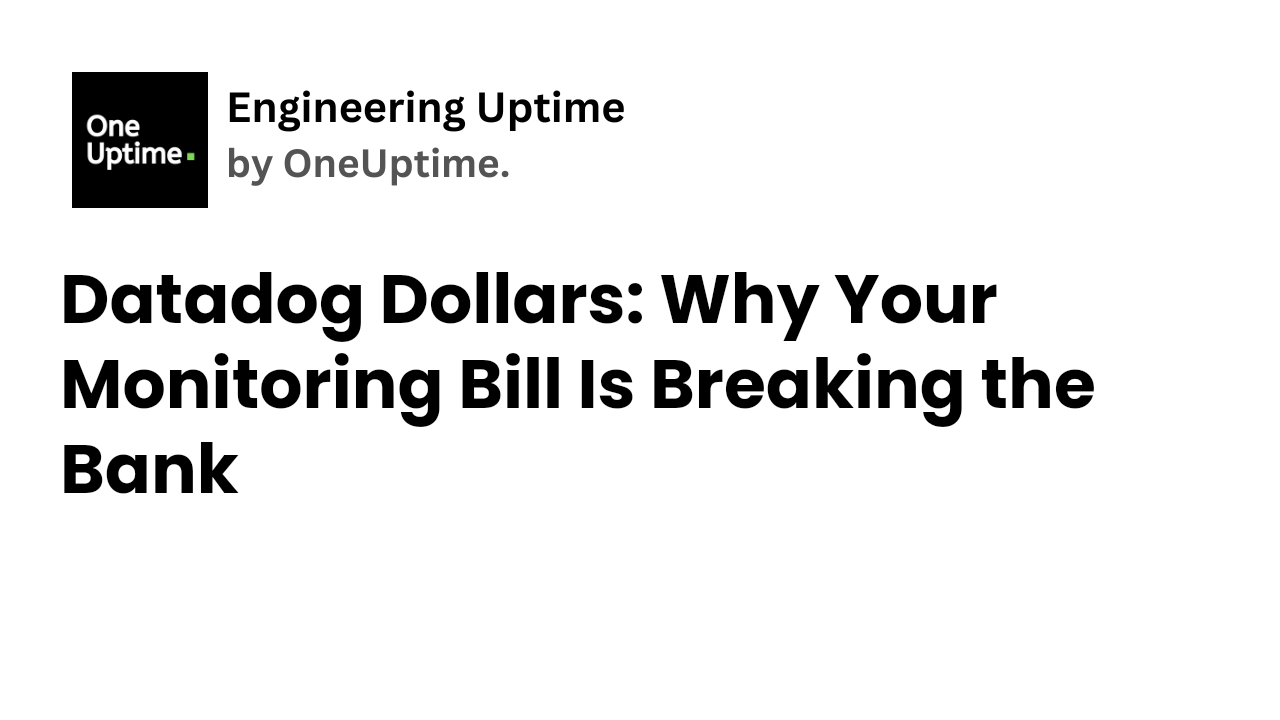
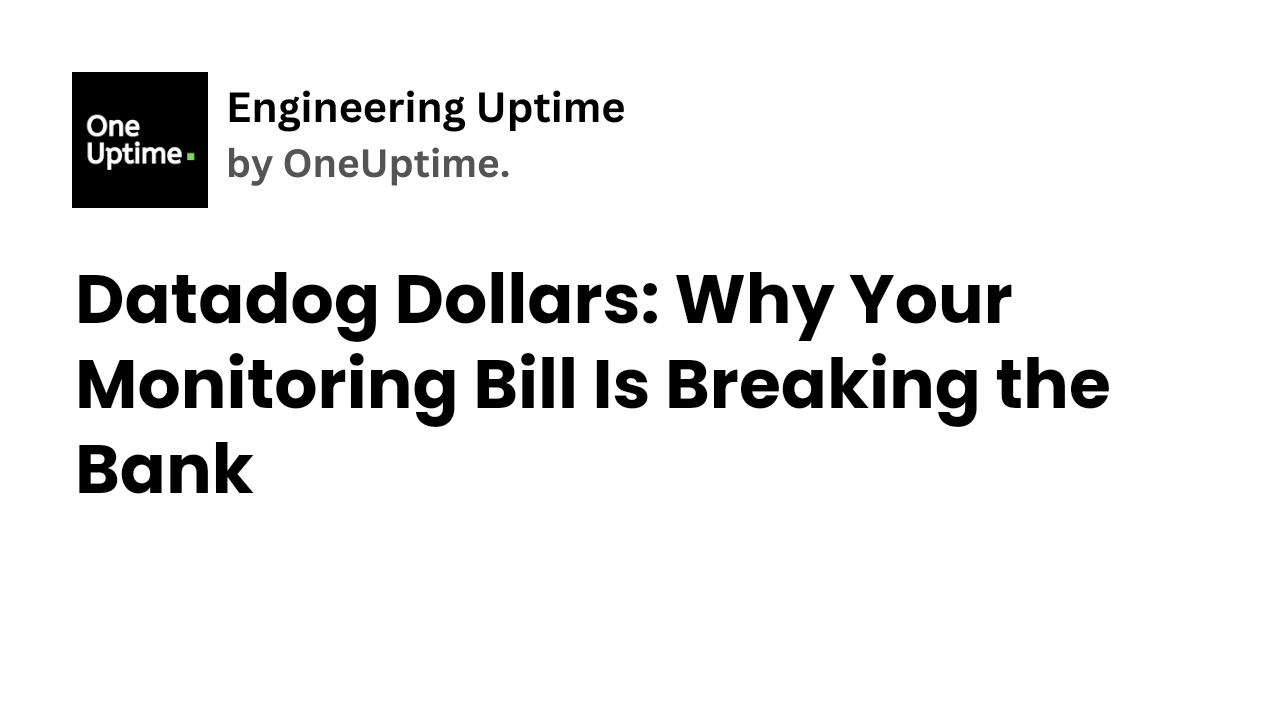
Adjust social media image generation configuration for improved layout

Changed region(s): [[0.0312, 0.3667, 0.875, 0.6111], [0.0312, 0.6111, 0.2188, 0.7028]]

diff --git a/src/scripts/generate-social-image.ts b/src/scripts/generate-social-image.ts
@@ -75,9 +75,9 @@ const ROOT_DIR = path.resolve(SCRIPT_DIR, '../..');
 const TEMPLATE_PATH = path.join(ROOT_DIR, 'social-media-image-template.png');
 
 const TITLE_CONFIG: TitleConfig = {
-  x: 60,
+  x: 75,
   y: 260,
-  maxWidth: 1160,
+  maxWidth: 1130,
   lineHeight: 85,
   fontSize: 68,
   fontFamily: FONT_FAMILY,
